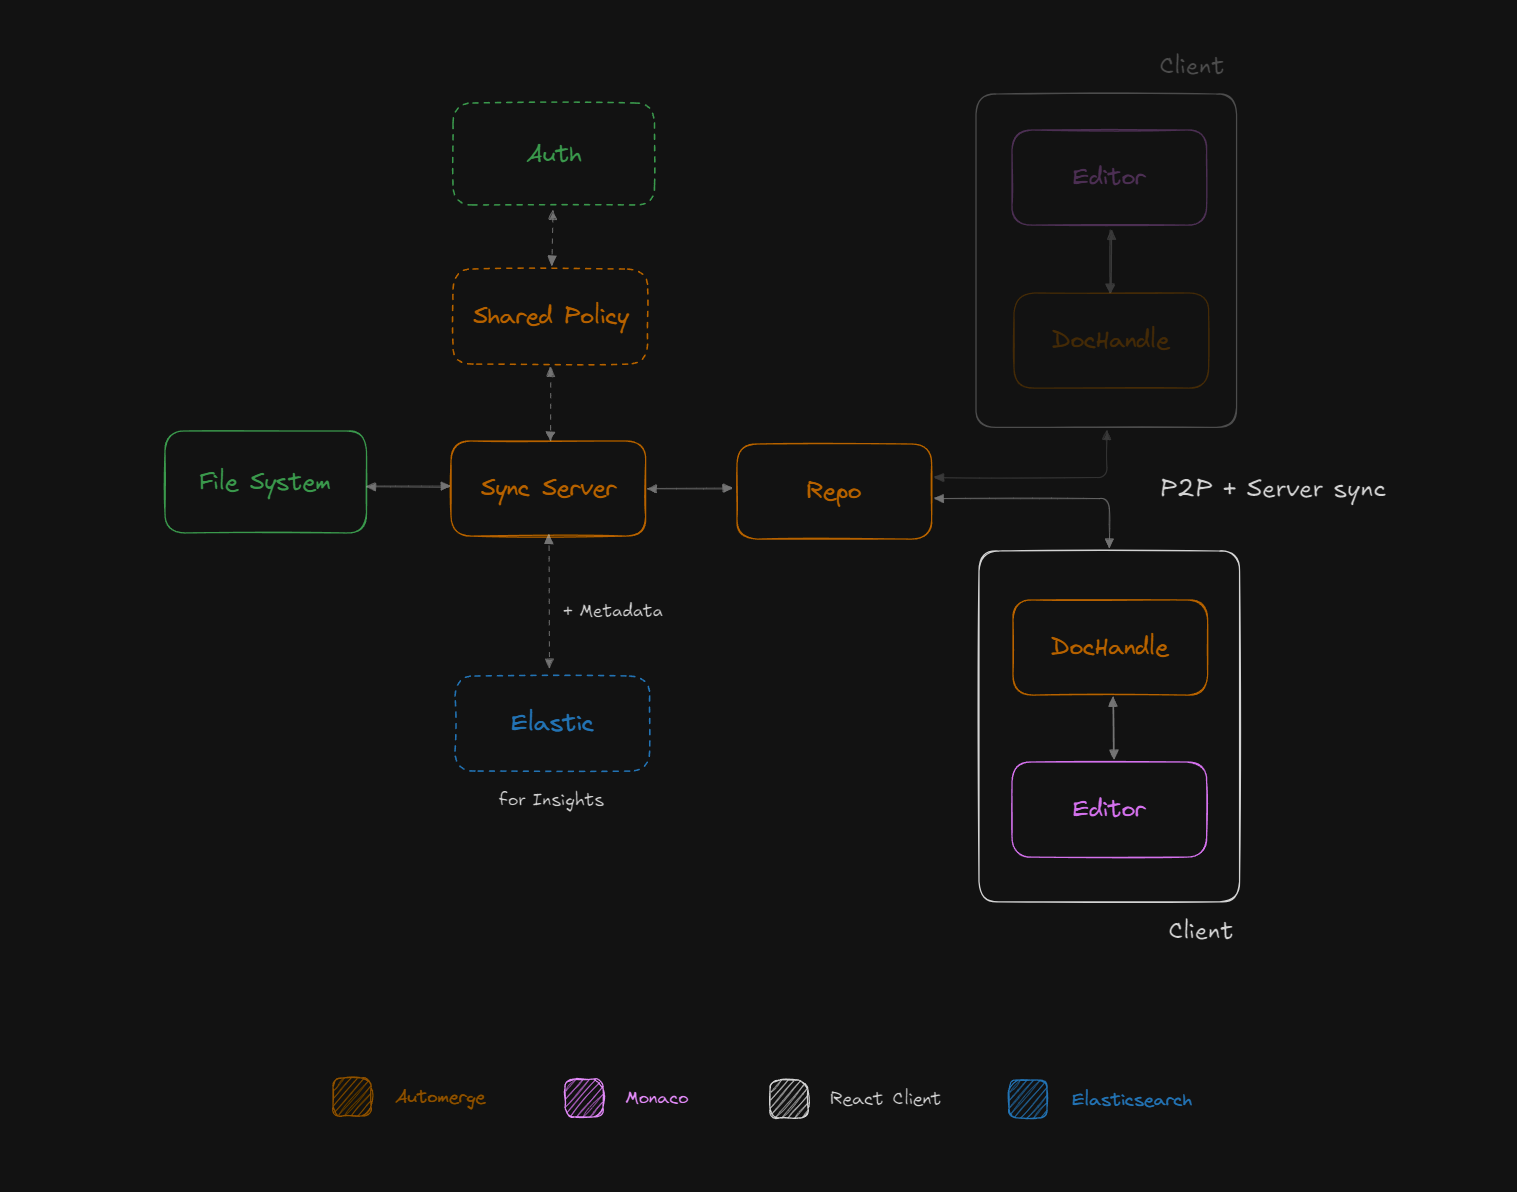
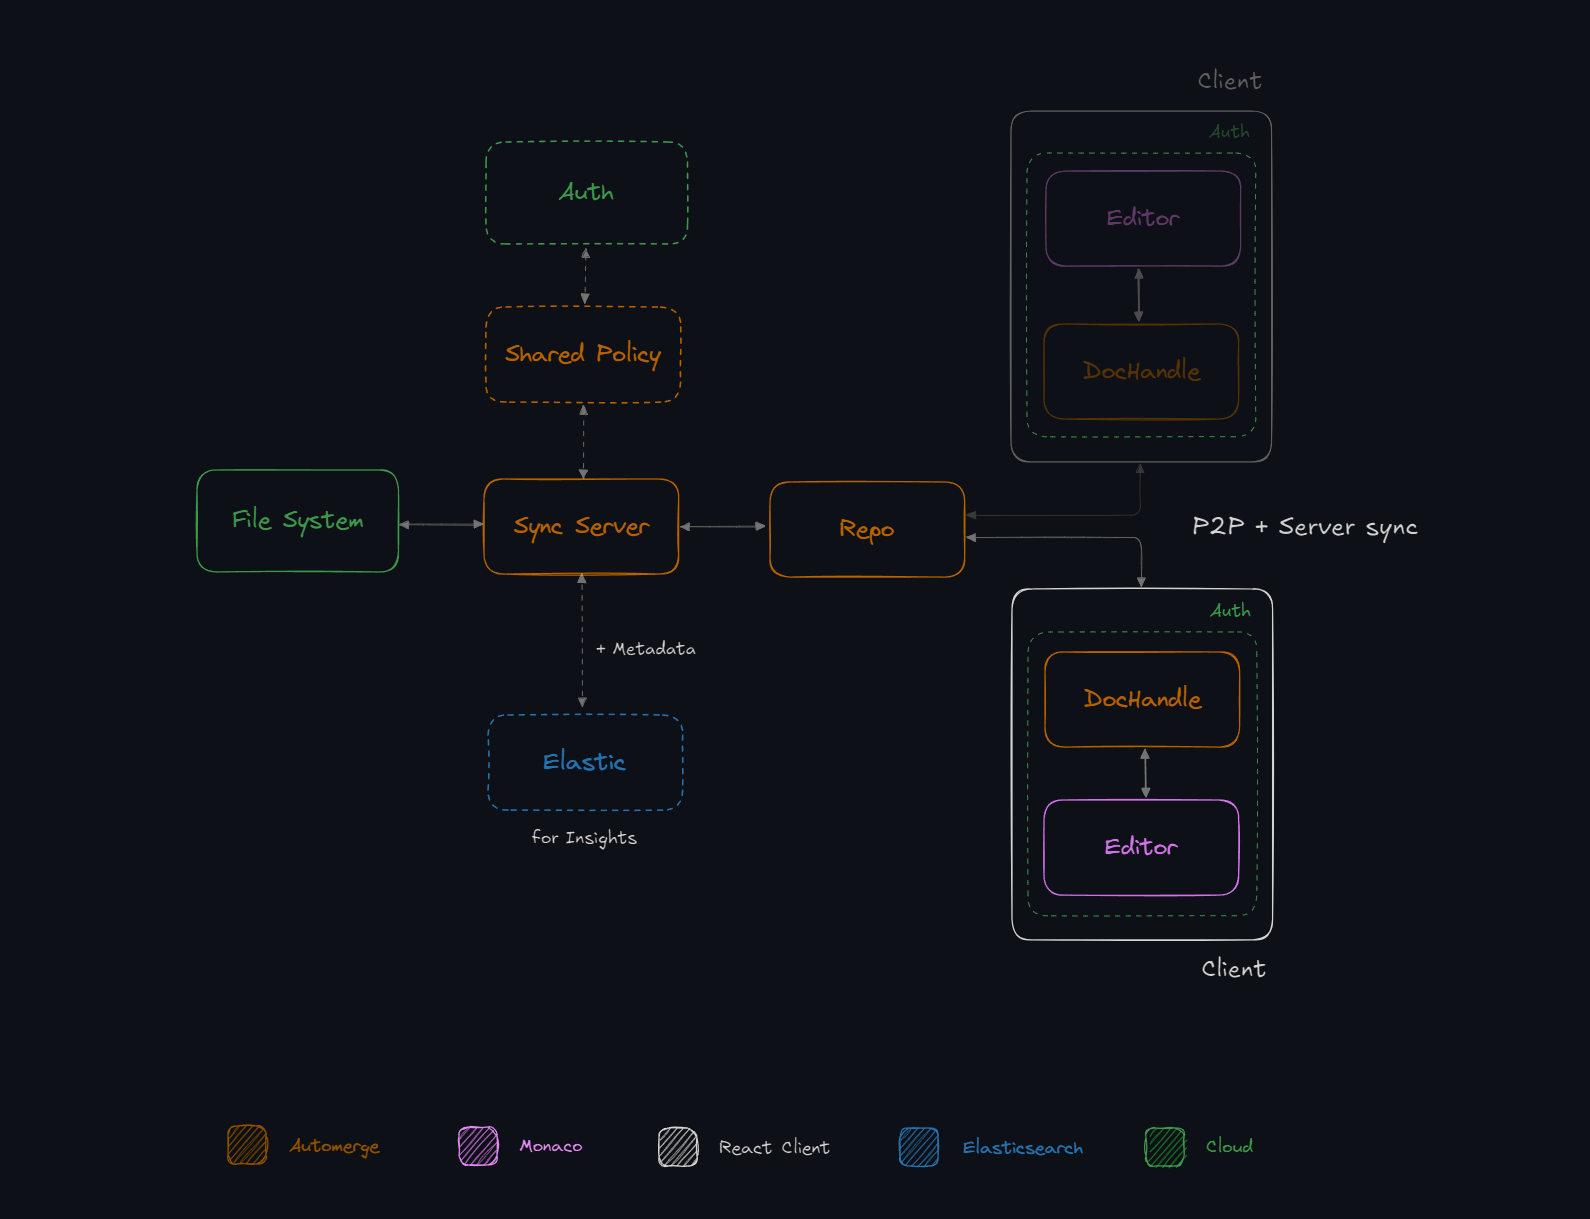
docs: architecture.md improvements

diff --git a/docs/architecture.md b/docs/architecture.md
@@ -1,7 +1,12 @@
-<picture>
- <source media="(prefers-color-scheme: dark)" srcset="../assets/diagram-dark.png">
- <img src="../assets/diagram-light.png">
-</picture>
+<sub>architecture.md</sub>
+
+<p style="margin:10px 0px">
+<a target="_blank" href="https://excalidraw.com/#json=yww6Aapyn22A3YcXSkZnB,VrvnMYpapUYH1CQpCRJEFg">https://excalidraw.com/#json=yww6Aapyn22A3YcXSkZnB</a>
+  <picture>
+    <source media="(prefers-color-scheme: dark)" srcset="../assets/diagram-dark.png">
+    <img src="../assets/diagram-light.png">
+  </picture>
+</p>
 
 <h1 align="center" style="margin: 15px 0px">
 Architecture
@@ -21,8 +26,8 @@ This document outlines the architecture of Wolf Editor. It provides an overview 
 
 - Syncs document changes between connected clients and the server.
 - Persists document data into the file system for durability.
-- Syncs document history and changes to [Elasticsearch](https://www.elastic.co/guide/en/elasticsearch/reference/current/index.html) for insights.
-- Integrates with a third-party authentication service to enforce access control policies.
+- Syncs document history and changes to [Elasticsearch](https://www.elastic.co/guide/en/elasticsearch/reference/current/index.html) for insights. (*)
+- Integrates with a third-party authentication service to enforce access control policies. (*)
 - [Automerge Repo Sync Server](https://github.com/automerge/automerge-repo-sync-server)
 
 <h3 id="automerge-repo">Automerge Repo</h3>
@@ -64,18 +69,21 @@ At this stage, scaling of the servers can be delegated to a managed service like
 - **CI/CD workflows (GH Actions)**: Run Playwright tests with the docker setup. Automatically deploy if checks are OK.
 - **User ACL**: Keep track of user roles, permissions, document access
 - **Cloud storage (S3, GCS)**: Automerge Repo storage adapter for known Cloud providers
-- **Transpile and bundle Typecript**: Currently Docker runs the Vite dev server, Typescript needs to be compiled and bundeled into JS
+- **Transpile and bundle Typecript**: Currently Docker runs the Vite dev server, Typescript needs to be transpiled and bundeled into JS
+- **Unit tests**: Both server and client require some units to be tested more thoroughly
 
 <h2 id="shared-policy">Shared Policy and Authentication (*Not implemented)</h3>
 
-Automerge **Shared Policy** can be used to enforce access control policies for individual documents. Authentication and Access Level can be handled by a 3rd party service ([Firebase](https://firebase.google.com/docs/auth), [0Auth](https://auth0.com/)) or self-hosted and managed with something like [Keycloak](https://www.keycloak.org/).
+Automerge **Shared Policy** can be used to control which document can shared with other peers. The share policy will not stop a document being requested by another peer by its DocumentId. 
+
+User authentication and document access level can be handled by a 3rd party service ([Firebase](https://firebase.google.com/docs/auth), [0Auth](https://auth0.com/)) or self-hosted and managed with something like [Keycloak](https://www.keycloak.org/).
 
 - [Automerge Repo Share Policy](https://github.com/automerge/automerge-repo/tree/main/packages/automerge-repo#share-policy)
 - https://automerge.org/automerge-repo/types/_automerge_automerge_repo.SharePolicy.html
 
 <h2 id="elastic">Elasticsearch Instance (*Not implemented)</h3>
 
-Can be used to stores document change logs, including user and other metadata. Provides in-depth insights and analytics on documents, users..
+Can be used to stores document change logs, including user and other metadata. Provides in-depth insights and analytics on documents, users.
 
 Example queries:
 
